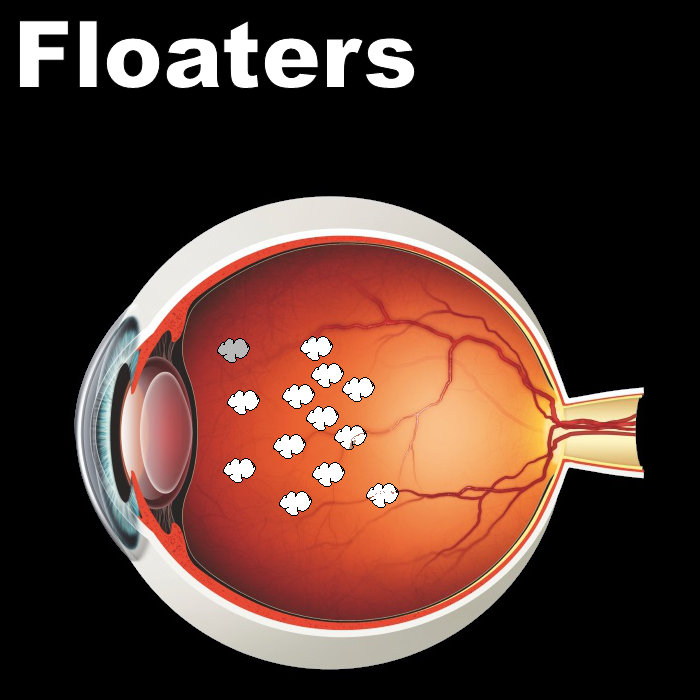
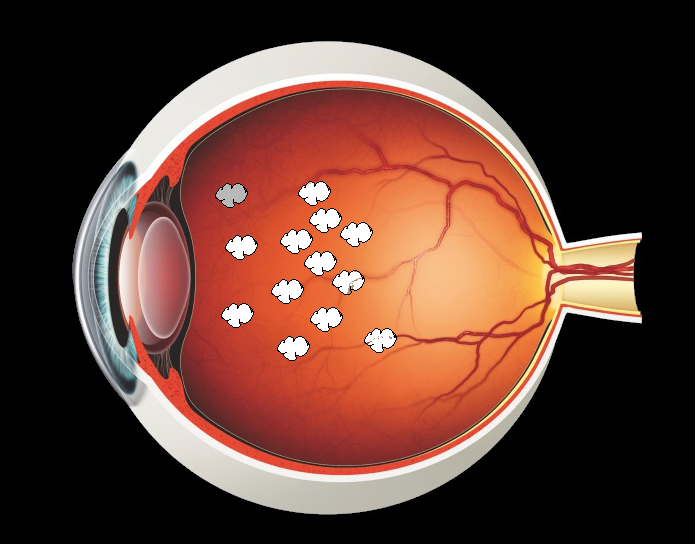
Adjusted img sizes

diff --git a/src/index.js b/src/index.js
@@ -66,7 +66,7 @@ class App extends React.Component {
         return(
             <div >               
                 {Data.map(condition => 
-                <div className='condCont' key={condition.id}>
+                <div className='condCont' id={condition.id}>
                     <h3 className='title'>{condition.name}</h3>
                     <img src={condition.image} className='condImg'/>
                     <p style={{display: this.state.display ? 'none': 'block'}} className='description'>{condition.description}</p>

diff --git a/index.js b/index.js
@@ -79,7 +79,7 @@ var App = function (_React$Component) {
                 Data.map(function (condition) {
                     return React.createElement(
                         'div',
-                        { className: 'condCont', key: condition.id },
+                        { className: 'condCont', id: condition.id },
                         React.createElement(
                             'h3',
                             { className: 'title' },

diff --git a/css/style.css b/css/style.css
@@ -443,6 +443,18 @@ header {
     margin-right: auto;
 }
 
+#FF img {
+    width: 80%;
+}
+
+#Cataract img, #LVS img {
+    width: 70%;
+}
+
+#DRD img, #Glaucoma img, #MD img {
+    width: 60%;
+}
+
 .description {
     display: none;
     width: 90%;
